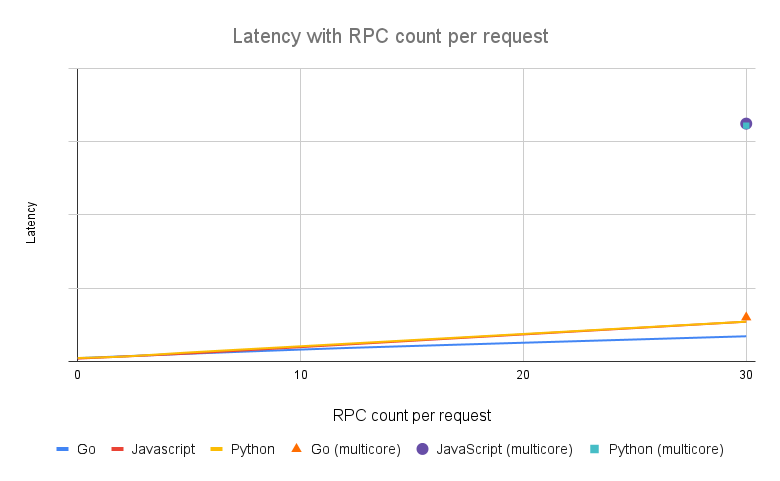
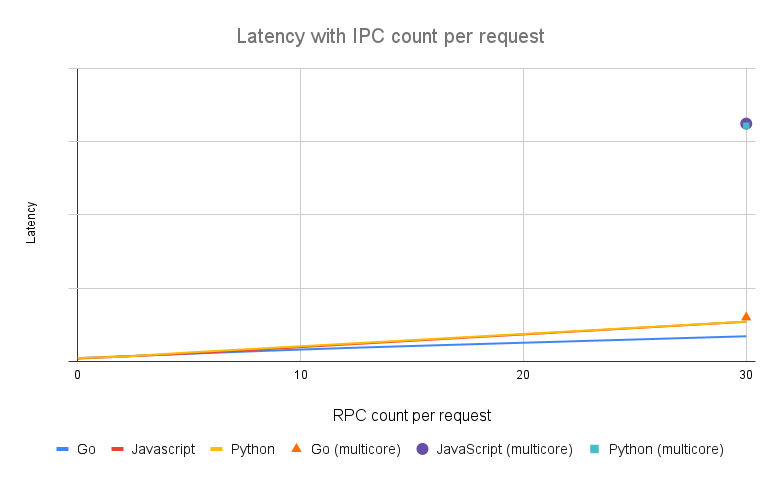
Unify wording to use IPC over RPC

Changed region(s): [[0.2769, 0.0624, 0.7077, 0.0936]]

diff --git a/app/gateway-oss/2.5.x/external-plugins.md b/app/gateway-oss/2.5.x/external-plugins.md
@@ -347,7 +347,8 @@ Similar to Lua plugins, the presence of the `response` handler automatically ena
 
 #### 2. PDK functions
 
-[kong-js-pdk] invokes PDK functions in Kong through network-based RPC. Thus each function returns a Promise
+[kong-js-pdk] invokes PDK functions in Kong through network-based IPC (inter-process communication).
+Thus each function returns a Promise
 instance; it's convenient to use `async`/`await` keywords in phase handlers for better readability.
 
 ```javascript
@@ -565,9 +566,9 @@ multiple CPU cores as well.
 Unlike Lua plugins where invoking PDK functions are handled in local processes,
 calling PDK functions in external plugin implies inter-process communications and is thus
 relatively expensive operation. In that case the performance of Kong using external plugins is
-highly related to the number of IPC calls in each request.
+highly related to the number of IPC (inter-process communication) calls in each request.
 
-The following graph demonstrates the correlation between performance and count of RPC
+The following graph demonstrates the correlation between performance and count of IPC
 calls per request. Numbers of RPS and latency are removed as they are dependent on
 hardware and to avoid confusion.
 
